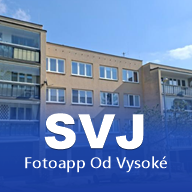
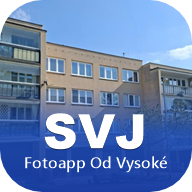
Ikona se zaoblenými rohy (systémová úvodní obrazovka už nebliká hranatě), verze 1.24.1

diff --git a/app/index.html b/app/index.html
@@ -277,7 +277,7 @@ const ENDPOINTS = {
   test: 'https://script.google.com/macros/s/AKfycbxs9B0HfgFENA7_BO4VSgoAY8gHmhxAC32D5nKJf902OufOF6bqKSR-T9N1ZInRk_Hm/exec' // testovací skript
 };
 const ENDPOINT = ENDPOINTS[ENV], NS = ENV === 'test' ? 'T:' : '';
-const VERSION = '1.24.0';
+const VERSION = '1.24.1';
 const $ = id => document.getElementById(id);
 const lsGet = k => { try { return localStorage.getItem(NS + k); } catch (e) { return null; } };
 const lsSet = (k, v) => { try { localStorage.setItem(NS + k, v); } catch (e) {} };

diff --git a/app/sw.js b/app/sw.js
@@ -1,5 +1,5 @@
 // Offline: appka se uloží do cache. Nová verze čeká na potvrzení v appce.
-const VERSION = '1.24.0';
+const VERSION = '1.24.1';
 // ostrá a testovací verze běží na stejném webu, mají proto oddělenou cache
 const PREFIX = self.location.pathname.indexOf('/test/') >= 0 ? 'fotoapp-test-v' : 'fotoapp-v';
 const CACHE = PREFIX + VERSION;
